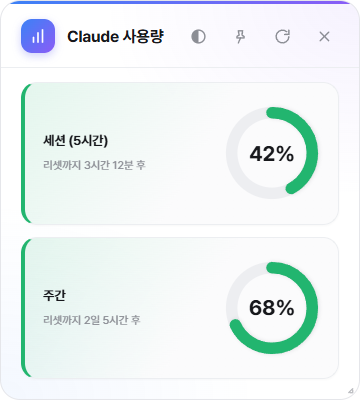
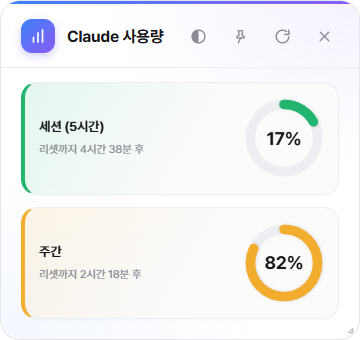
사용량 팝업 높이 축소 (지인 피드백: 너무 높다)
링 게이지(96px→80px), 카드 패딩(18px→14px)을 줄이고 창 기본 높이를
360x400에서 360x340으로 맞춤 -- 카드가 flex:1이라 창 높이를 줄이는 것만으로는
링이 카드 밖으로 넘칠 수 있어 링/패딩도 같이 줄임. Playwright로 실제 렌더링해서
전후 비교 후 결정, docs/screenshot.png도 새 크기로 재생성.

diff --git a/usage_widget/assets/web/usage.html b/usage_widget/assets/web/usage.html
@@ -7,7 +7,7 @@
 <script src="i18n.js"></script>
 <style>
   .usage-card {
-    padding: 18px;
+    padding: 14px;
     border-left: 4px solid var(--severity, var(--card-border));
     background: linear-gradient(120deg, var(--severity-wash, transparent), var(--card-bg) 55%);
     transition: border-color 0.3s ease, background 0.3s ease;
@@ -15,10 +15,10 @@
     display: flex;
   }
   .usage-row { display: flex; align-items: center; justify-content: space-between; gap: 16px; flex: 1; }
-  .usage-info { display: flex; flex-direction: column; gap: 10px; min-width: 0; }
+  .usage-info { display: flex; flex-direction: column; gap: 8px; min-width: 0; }
   .usage-title { font-size: 13px; font-weight: 600; letter-spacing: -0.1px; }
   .usage-reset { line-height: 1.4; }
-  .ring { position: relative; width: 96px; height: 96px; flex: none; }
+  .ring { position: relative; width: 80px; height: 80px; flex: none; }
   .ring svg { width: 100%; height: 100%; transform: rotate(-90deg); overflow: visible; }
   .ring-track { fill: none; stroke: #edeef1; stroke-width: 12; }
   .ring-fill {
@@ -34,7 +34,7 @@
     display: flex;
     align-items: center;
     justify-content: center;
-    font-size: 21px;
+    font-size: 18px;
     font-weight: 700;
     letter-spacing: -0.3px;
   }

diff --git a/usage_widget/webui.py b/usage_widget/webui.py
@@ -607,7 +607,10 @@ def show_usage_popup(usage: UsageData, on_refresh: Optional[Callable[[], Optiona
 
     def create() -> webview.Window:
         box: list = []
-        width, height = 360, 400
+        # 400 used to leave noticeably more empty space than the two cards
+        # (each with a 96px ring + 18px padding) actually needed -- shrunk
+        # to match usage.html's smaller ring/padding (see its <style>).
+        width, height = 360, 340
         size = [width, height]
         config = Config.load()
         opacity = config.usage_popup_opacity
